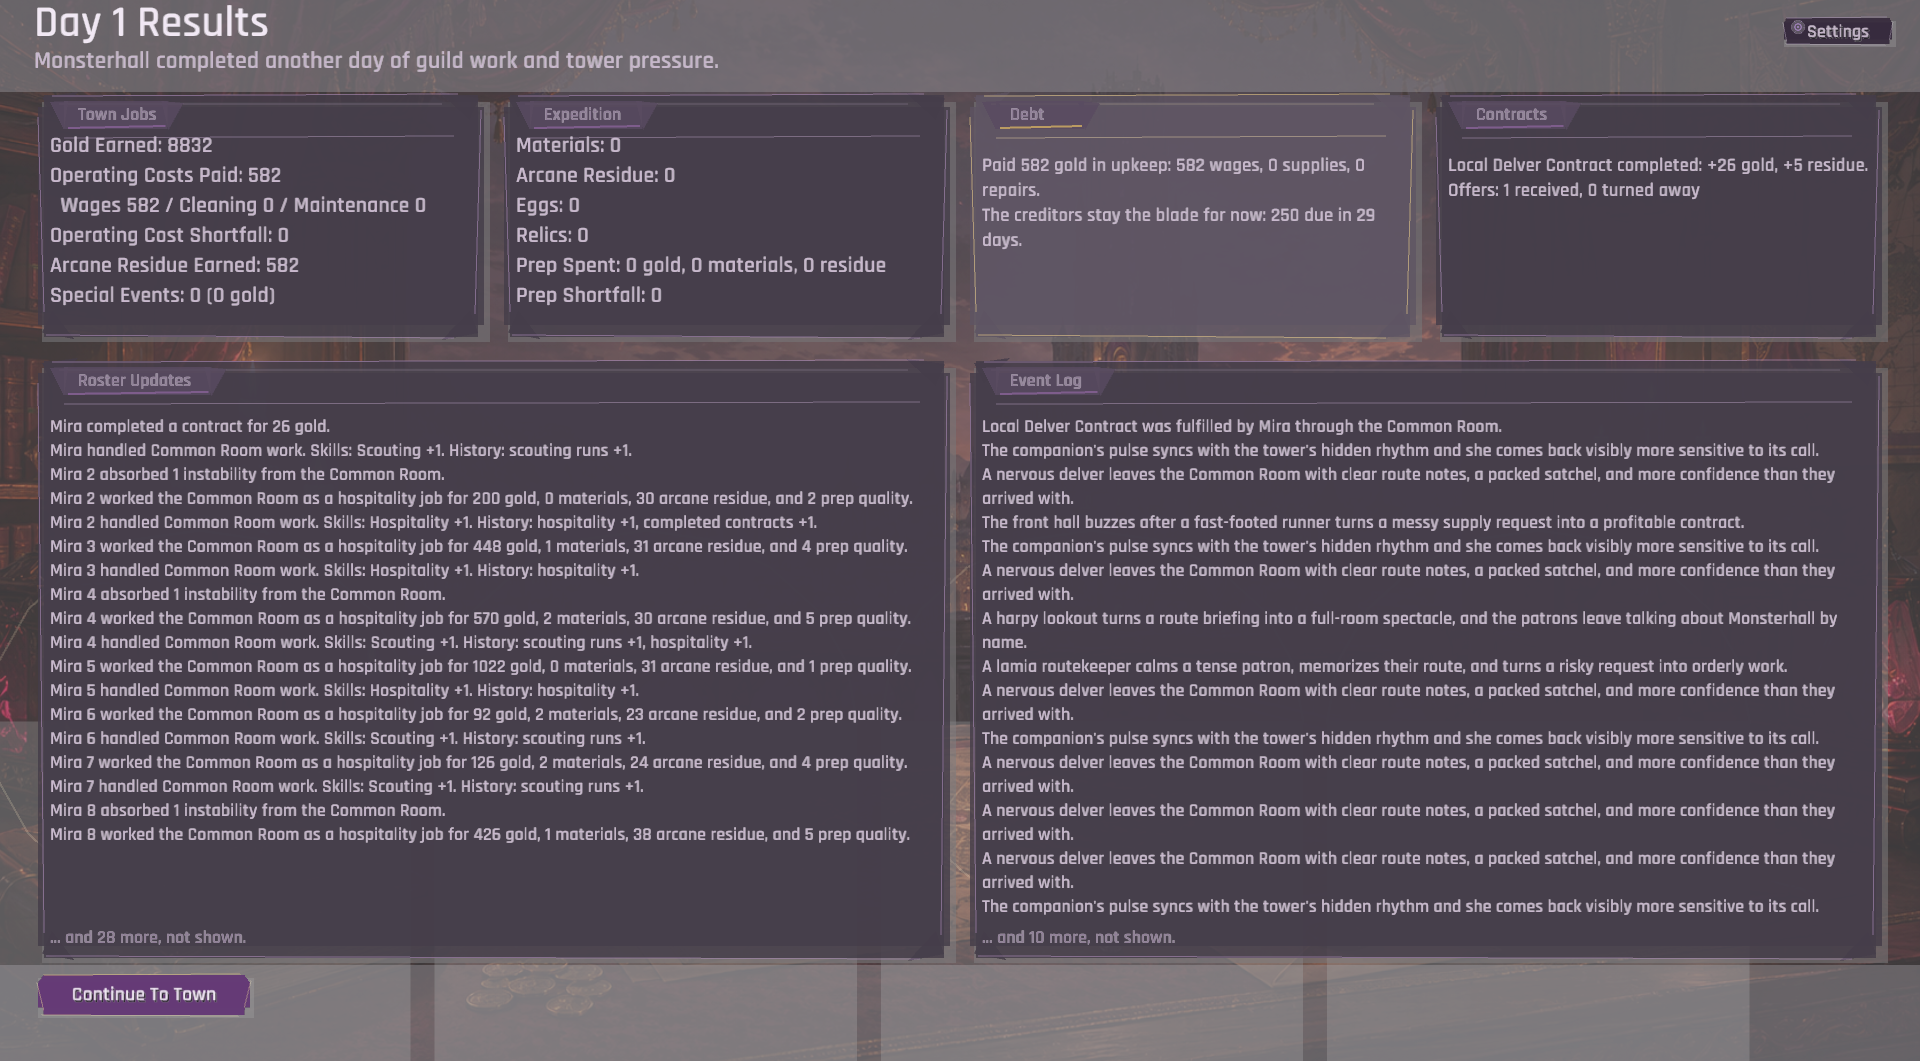
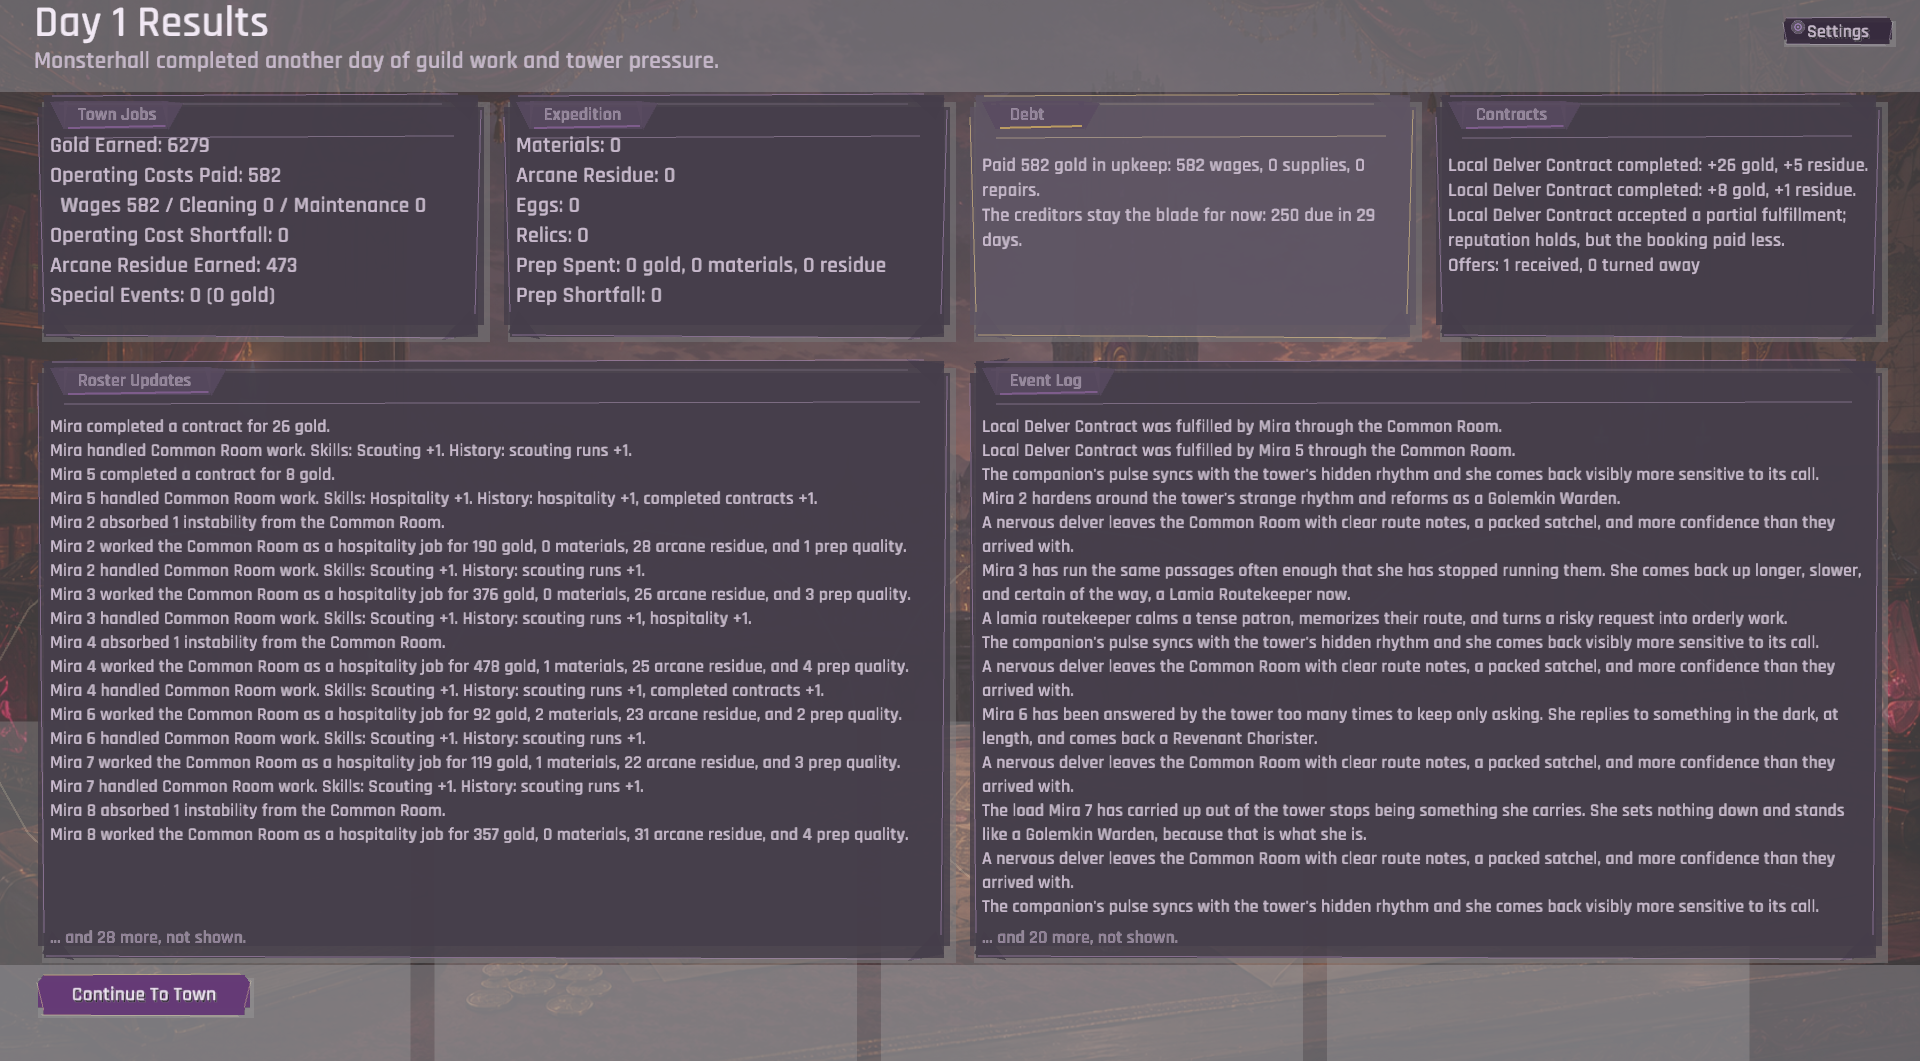
The badges said the same thing at nothing and at eighty-eight
Every companion in a capture had zero fatigue, zero stress, zero injury
and zero instability, and every booking was one the contract accepted in
full. So the condition badges, the worn notes added two passes ago, the
mutation announcements and the whole half-pay path had never been
photographed carrying a value. The seeding spreads the three meters and
instability across the roster now, and books a second contract with a
companion the patron would refuse.

The defect fell out of the first capture. `draw_condition_badges` drew
one fixed colour per meter, so a fresh companion and a spent one looked
identical — on the one card the Rest button lives on. The badges were
added specifically to inform that decision and could not.

They read the authored allowances now. Muted while a meter is costing the
guild nothing, the meter's own colour once it is past its allowance and
taking output off everything she does, and DANGER at the cap the meters
are held to. Instability keeps its colour whenever it has started at all,
because it is not a cost — it is the meter the tower changes her with.
`condition_tone` came out as a pure function so a test can pin the turn
to the authored allowance rather than to a threshold invented in the UI;
verified by planting a flat tone.

The richer harness confirmed two earlier passes on its way past. The
day's report now contains a partial completion for the first time in this
game's life — "accepted a partial fulfillment; reputation holds, but the
[…]

diff --git a/src/ui/art.rs b/src/ui/art.rs
@@ -615,12 +615,78 @@ pub fn draw_trait_icons(data: &GameData, trait_ids: &[String], x: f32, y: f32, w
 }
 
 #[allow(dead_code)]
-pub fn draw_condition_badges(monster: &CompanionState, x: f32, y: f32, w: f32) {
+/// How hard a condition meter is biting, which is the whole reason the badges
+/// are on the card the Rest button lives on.
+#[derive(Debug, Clone, Copy, PartialEq, Eq)]
+pub(crate) enum ConditionTone {
+    /// Inside its allowance: costing the guild nothing yet.
+    Calm,
+    /// Past its allowance, so it is taking output off everything she does.
+    Strained,
+    /// At the cap the meters are held to; nothing worse can happen to it.
+    Spent,
+}
+
+/// Read from the authored allowances rather than a threshold invented here, so
+/// the badge turns at exactly the point the engine starts charging her for it.
+pub(crate) fn condition_tone(value: u32, allowance: u32, max_meter: u32) -> ConditionTone {
+    if max_meter > 0 && value >= max_meter {
+        ConditionTone::Spent
+    } else if value > allowance {
+        ConditionTone::Strained
+    } else {
+        ConditionTone::Calm
+    }
+}
+
+pub fn draw_condition_badges(data: &GameData, monster: &CompanionState, x: f32, y: f32, w: f32) {
+    // Every badge used to draw in one fixed colour per meter, so a companion at
+    // 88 fatigue was indistinguishable from one at 0 on the card whose Rest
+    // button is the decision they inform. No capture could show it either,
+    // because until this pass the harness gave every copy a zeroed condition.
+    let effects = &data.config.day_cycle.condition_effects;
+    let max_meter = effects.max_meter;
+    let tone_color = |tone: ConditionTone, accent: Color| match tone {
+        ConditionTone::Calm => theme::TEXT_MUTED,
+        ConditionTone::Strained => accent,
+        ConditionTone::Spent => theme::DANGER,
+    };
     let badges = [
-        ("F", monster.fatigue, color_u8!(205, 175, 90, 255)),
-        ("S", monster.stress, color_u8!(205, 122, 111, 255)),
-        ("I", monster.injury, color_u8!(191, 92, 92, 255)),
-        ("C", monster.corruption, color_u8!(161, 98, 185, 255)),
+        (
+            "F",
+            monster.fatigue,
+            tone_color(
+                condition_tone(monster.fatigue, effects.fatigue_allowance, max_meter),
+                color_u8!(205, 175, 90, 255),
+            ),
+        ),
+        (
+            "S",
+            monster.stress,
+            tone_color(
+                condition_tone(monster.stress, effects.stress_allowance, max_meter),
+                color_u8!(205, 122, 111, 255),
+            ),
+        ),
+        (
+            "I",
+            monster.injury,
+            tone_color(
+                condition_tone(monster.injury, effects.injury_allowance, max_meter),
+                color_u8!(191, 92, 92, 255),
+            ),
+        ),
+        // Instability has no allowance — it is not a cost, it is the meter the
+        // tower changes her with — so it only says whether it has started.
+        (
+            "C",
+            monster.corruption,
+            if monster.corruption > 0 {
+                color_u8!(161, 98, 185, 255)
+            } else {
+                theme::TEXT_MUTED
+            },
+        ),
     ];
     let badge_w = (w - 18.0) / 4.0;
     for (index, (label, value, accent)) in badges.iter().enumerate() {
@@ -650,7 +716,22 @@ pub fn draw_condition_badges(monster: &CompanionState, x: f32, y: f32, w: f32) {
 
 #[cfg(test)]
 mod tests {
-    use super::trailing_limbs;
+    use super::{condition_tone, trailing_limbs, ConditionTone};
+
+    /// The badges exist to answer "who needs resting", and they answered it the
+    /// same way at 0 fatigue and at 88.
+    #[test]
+    fn a_meter_turns_exactly_where_the_engine_starts_charging_for_it() {
+        // Fatigue's authored allowance is 30 and the meters cap at 100.
+        assert_eq!(condition_tone(0, 30, 100), ConditionTone::Calm);
+        assert_eq!(condition_tone(30, 30, 100), ConditionTone::Calm);
+        assert_eq!(condition_tone(31, 30, 100), ConditionTone::Strained);
+        assert_eq!(condition_tone(99, 30, 100), ConditionTone::Strained);
+        assert_eq!(condition_tone(100, 30, 100), ConditionTone::Spent);
+        // Injury is authored with no allowance at all, so any injury bites.
+        assert_eq!(condition_tone(0, 0, 100), ConditionTone::Calm);
+        assert_eq!(condition_tone(1, 0, 100), ConditionTone::Strained);
+    }
 
     /// A portrait must stay inside its own frame at every size a screen draws
     /// it, from the 72-pixel roster card to the profile's large art.

diff --git a/src/game/capture.rs b/src/game/capture.rs
@@ -126,6 +126,18 @@ impl Game {
                 copy.stats = species.base_stats.clone();
                 copy.trait_ids = species.starting_traits.clone();
             }
+            // And a guild that has been worked. Every copy carried zero
+            // fatigue, stress, injury and instability, so the condition badges,
+            // the worn notes on the guild-job and expedition cards and anything
+            // instability-gated had never been photographed holding a number —
+            // the three meters only mean something once they are not zero.
+            // Spread across the roster rather than raised uniformly, because
+            // what these screens are for is telling one companion from another.
+            let wear = index as u32 % 5;
+            copy.fatigue = wear * 22;
+            copy.stress = wear * 14;
+            copy.injury = (wear % 3) * 9;
+            copy.corruption = (index as u32 % 7) * 34;
             game_state.monsters.push(copy);
         }
 
@@ -205,6 +217,26 @@ impl Game {
                 .first()
                 .map(|monster| monster.id.clone()),
         ) {
+            let request = &mut game_state.active_contracts[index];
+            request.assigned_monster_id = Some(monster_id);
+            request.status = crate::state::ContractStatus::Accepted;
+        }
+
+        // And a second booking taken by somebody the contract would refuse,
+        // which the engine still accepts and pays half for. That path has
+        // existed for the game's whole life and no capture has ever contained
+        // it, so the day's report has never been read with a partial completion
+        // in it.
+        let half_pay_candidate = game_state
+            .monsters
+            .iter()
+            .find(|monster| monster.skills.scouting == 0 && monster.skills.hospitality == 0)
+            .map(|monster| monster.id.clone());
+        let second_offer = game_state
+            .active_contracts
+            .iter()
+            .position(|request| matches!(request.status, crate::state::ContractStatus::Pending));
+        if let (Some(index), Some(monster_id)) = (second_offer, half_pay_candidate) {
             let request = &mut game_state.active_contracts[index];
             request.assigned_monster_id = Some(monster_id);
             request.status = crate::state::ContractStatus::Accepted;

diff --git a/src/ui/screens/town_overview_roster.rs b/src/ui/screens/town_overview_roster.rs
@@ -155,7 +155,7 @@ fn draw_roster_card_organic(
     if show_condition {
         // Capped: the roster card is full-width, so an uncapped strip gives four
         // enormous boxes holding two characters each.
-        draw_condition_badges(monster, text_x, y + h - 40.0, text_w.min(300.0));
+        draw_condition_badges(data, monster, text_x, y + h - 40.0, text_w.min(300.0));
     }
 
     if secondary_button(

diff --git a/loop.md b/loop.md
@@ -1532,6 +1532,33 @@ Stop the loop and report if:
   never been seen with a **partial** contract completion in it; (c) untaken slices
   unchanged: `ui_text` migration, unbounded event log, corruption's missing relief path.
 
+- **2026-08-03 — twenty-sixth pass (badges that said the same thing at 0 and at 88).**
+  Closed the last harness blind spot the previous note named: every captured companion
+  had zero fatigue, stress, injury and instability, and every booking was one the
+  contract accepted in full. The seeding spreads the three meters and instability across
+  the roster now and books a second contract with a companion the patron would refuse.
+  The find came straight out of it: `draw_condition_badges` drew **one fixed colour per
+  meter**, so a fresh companion and a spent one were identical on the one card the Rest
+  button lives on — the badges exist to inform exactly that decision and could not. They
+  read the authored allowances now (fatigue 30, stress 20, injury 0): muted while a
+  meter costs nothing, the meter's own colour once it is past its allowance, `DANGER` at
+  `max_meter`; instability keeps its colour whenever it has started, because it is not a
+  cost but the meter the tower changes her with. `condition_tone` extracted as a pure
+  function with a test pinning the turn to the authored allowance, verified by planting
+  a flat tone.
+  **Result:** 132 tests (was 131), fmt and clippy clean, publish green, **balance
+  byte-identical** — harness, drawing and one guard, no data file touched. The richer
+  harness also confirmed two earlier passes: the day's report contains a **partial
+  completion** for the first time in the game's life, and four mutation announcements
+  read correctly against the species that produced them.
+  **Next iteration should know:** (a) the harness can now produce a crowded, varied,
+  worn, mutating guild with a half-paid booking — the capture blind spots this loop kept
+  finding defects behind are worked out, so the next lens should probably not be
+  screenshots; (b) three recorded slices remain untaken and all are engine-side: the
+  `ui_text` migration (~40 hardcoded strings, and this pass added two more lines to that
+  debt), the unbounded event log in the save, and corruption's missing relief path,
+  which is the last of the four options `TODO.md` parked for the roster monoculture.
+
 ## Deferred (needs a new system or a decision; not for this loop)
 
 - **Make the validation policy's build order a plan rather than a shopping list.** Measured and

diff --git a/TODO.md b/TODO.md
@@ -212,6 +212,41 @@ mutation and the check names golemkin).
   is a `corruption_adept` exactly like the warden she replaces. Variety means a
   different *role*, not a different name.
 
+### Found by review, not by the audit (2026-08-03, twenty-sixth pass)
+
+Last of the harness blind spots: every companion in a capture had zero fatigue,
+stress, injury and instability, and every booking was one the contract accepted
+in full. So the condition badges, the worn notes added two passes ago, the
+mutation announcements and the entire half-pay path had never been photographed
+carrying a value. The seeding now spreads the three meters and instability across
+the roster and books a second contract with a companion the patron would refuse.
+
+- ~~The condition badges answered "who needs resting" the same way at 0 fatigue
+  and at 88.~~ Fixed. `draw_condition_badges` drew one fixed colour per meter, so
+  a fresh companion and a spent one were identical on the **one card the Rest
+  button lives on** — the badges were added specifically to inform that decision
+  and could not. They read the authored allowances now
+  (`condition_effects.fatigue_allowance` 30, `stress_allowance` 20,
+  `injury_allowance` 0): muted while a meter is costing the guild nothing, the
+  meter's own colour once it is past its allowance and taking output off
+  everything she does, and `DANGER` at `max_meter`. Instability keeps its own
+  colour whenever it has started, because it is not a cost — it is the meter the
+  tower changes her with.
+
+  **Guard**: `condition_tone` is a pure function and a test pins the turn to the
+  authored allowance rather than to a number invented in the UI — verified by
+  planting a flat tone.
+
+- **What the richer harness confirmed rather than fixed**: the day's report now
+  contains a **partial completion** for the first time in the game's life
+  (*"Local Delver Contract accepted a partial fulfillment; reputation holds, but
+  the booking paid less"*, beside the full one at +26 gold against its +8), and
+  four mutation announcements read correctly against the species that produced
+  them. Both panels count their overflow and neither clips.
+
+- **Balance byte-identical**; harness, drawing and one guard, no data file
+  touched.
+
 ### Found by review, not by the audit (2026-08-03, twenty-fifth pass)
 
 Took the last pass's own note: the harness cloned **one species** twenty times, so
